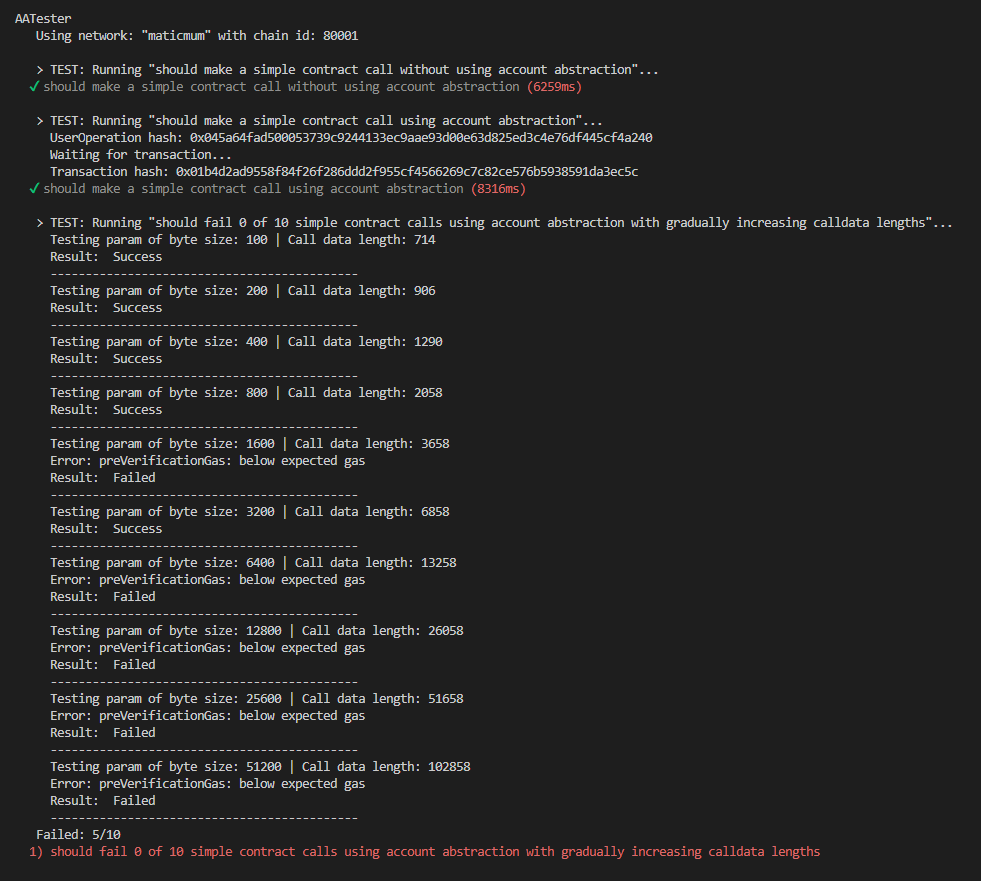
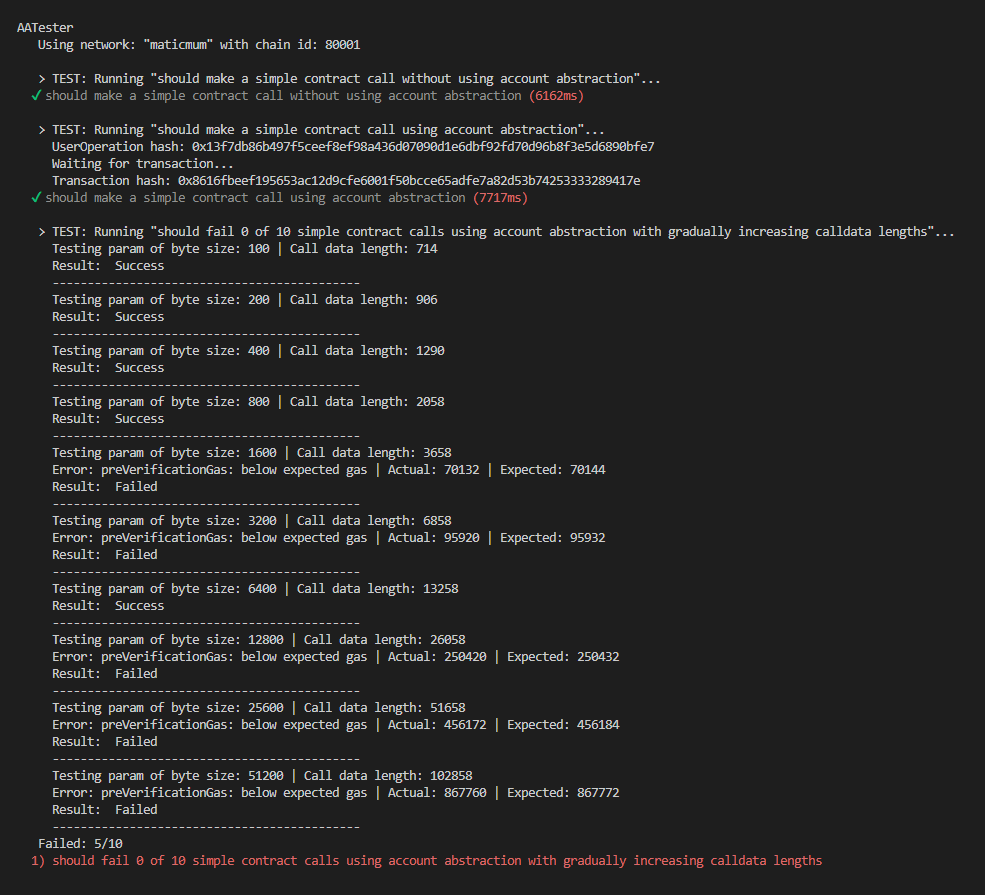
initial commit

Changed region(s): [[0.0, 0.0, 0.948, 0.9807], [0.5199, 0.8581, 0.6422, 0.8888], [0.5199, 0.7049, 0.6422, 0.7355]]

diff --git a/test/AATester.ts b/test/AATester.ts
@@ -8,22 +8,6 @@ import SimpleEventEmitterArtifact from "../artifacts/contracts/SimpleEventEmitte
 import { SimpleAccountAPI, HttpRpcClient } from "@account-abstraction/sdk";
 import { JsonRpcProvider } from "@ethersproject/providers";
 
-interface Gas {
-  maxFeePerGas: BigNumberish;
-  maxPriorityFeePerGas: BigNumberish;
-}
-async function getGasFee(provider: JsonRpcProvider): Promise<Gas> {
-  const [fee, block] = await Promise.all([provider.send("eth_maxPriorityFeePerGas", []), provider.getBlock("latest")]);
-  const tip = ethers.BigNumber.from(fee);
-  const buffer = tip.div(100).mul(13);
-  const maxPriorityFeePerGas = tip.add(buffer);
-  const maxFeePerGas = block.baseFeePerGas
-    ? block.baseFeePerGas.mul(2).add(maxPriorityFeePerGas)
-    : maxPriorityFeePerGas;
-
-  return { maxFeePerGas, maxPriorityFeePerGas };
-}
-
 describe("AATester", async () => {
   let signers: any[];
   let signer: Signer;
@@ -51,6 +35,7 @@ describe("AATester", async () => {
     });
   });
 
+  // Run a simple test without account abstraction
   const testDesc1 = "should make a simple contract call without using account abstraction";
   it(testDesc1, async function () {
     console.log('\n     > TEST: Running "' + testDesc1 + '"...');
@@ -59,6 +44,7 @@ describe("AATester", async () => {
     await expect(tx).to.emit(contract, "ParameterEmitted").withArgs(parameter);
   });
 
+  // Run a simple test with account abstraction
   const testDesc2 = "should make a simple contract call using account abstraction";
   it("should make a simple contract call using account abstraction", async function () {
     console.log('\n     > TEST: Running "' + testDesc2 + '"...');
@@ -77,6 +63,7 @@ describe("AATester", async () => {
     await expect(txHash).to.emit(contract, "ParameterEmitted").withArgs(parameter);
   });
 
+  // Run 10 tests with gradually increasing calldata length
   const testDesc3 =
     "should fail 0 of 10 simple contract calls using account abstraction with gradually increasing calldata lengths";
   it(testDesc3, async function () {
@@ -107,7 +94,15 @@ describe("AATester", async () => {
         await expect(txHash).to.emit(contract, "ParameterEmitted").withArgs(parameter);
       } catch (error: any) {
         if (error.message.includes("preVerificationGas: below expected gas")) {
-          console.log("       Error: preVerificationGas: below expected gas");
+          const expectedRegex = /below expected gas of (\d+)/;
+          const actualRegex = /"preVerificationGas\\":\\"(0x[\da-fA-F]+)\\"/;
+          const expectedMatch = error.message.match(actualRegex);
+          const actualMatch = error.message.match(expectedRegex);
+          const expectedValue = parseInt(actualMatch[1], 10);
+          const actualValue = parseInt(expectedMatch[1], 16);
+          console.log(
+            `       Error: preVerificationGas: below expected gas | Actual: ${actualValue} | Expected: ${expectedValue}`
+          );
           success = false;
         } else {
           console.log("       Unexpected Error: ", error.message);
@@ -120,5 +115,22 @@ describe("AATester", async () => {
     }
     console.log(`     Failed: ${failed}/10`);
     expect(failed).to.equal(0);
-  }).timeout(70000);
+  }).timeout(80000);
 });
+
+// Utility function for gas
+interface Gas {
+  maxFeePerGas: BigNumberish;
+  maxPriorityFeePerGas: BigNumberish;
+}
+async function getGasFee(provider: JsonRpcProvider): Promise<Gas> {
+  const [fee, block] = await Promise.all([provider.send("eth_maxPriorityFeePerGas", []), provider.getBlock("latest")]);
+  const tip = ethers.BigNumber.from(fee);
+  const buffer = tip.div(100).mul(13);
+  const maxPriorityFeePerGas = tip.add(buffer);
+  const maxFeePerGas = block.baseFeePerGas
+    ? block.baseFeePerGas.mul(2).add(maxPriorityFeePerGas)
+    : maxPriorityFeePerGas;
+
+  return { maxFeePerGas, maxPriorityFeePerGas };
+}

diff --git a/config.js b/config.js
@@ -1,7 +1,6 @@
 module.exports = {
   CONTRACT_MUMBAI: "0xE29ac49a7955FB874295b9c6F422E3A093FdB62D",
-  CONTRACT_GOERLI: "0xE8c54ce40b02972350210F1c972564f949Cba86F",
+  CONTRACT_GOERLI: "0x644a0eFd2d0fFBAAF4F83661C93C8566b80e925C",
   ENTRY_POINT: "0x0576a174D229E3cFA37253523E645A78A0C91B57",
   SIMPLE_ACCOUNT_FACTORY: "0x71D63edCdA95C61D6235552b5Bc74E32d8e2527B",
-  ACCOUNT_ADDRESS: "0x864b8a6ecE23b07eF98Cdf72000cE34bdCfdc413",
 };

diff --git a/README.md b/README.md
@@ -1,14 +1,37 @@
-# Account Abstraction Tests
+# Account Abstraction Calldata Tests
 
 This project runs some tests using the Account Abstraction SDK, specifically to test the impact of calldata size on submitting a User Operation to a bundler.
 
+This repo uses Stackup's bundler, but has also been tested with a local deployment of the Infinitism bundler, with the same results.
+
+### Findings
+
+- Some transactions are failing when the UserOperation is submitted to the bundler.
+
+- Generally, the likelihood of failure increases as the calldata size increases. But in repeated tests, the results are not consistent.
+
+- On failure, the error message is that preVerificationGas is below the expected value. It generally differs by only a small amount.
+
+### Conclusions
+
+It appears that the bundler is using the SDK's function for caculating preVerificationGas. Perhaps the discrepancy is related to the calculation being performed at slightly different times.
+
+[SDK implementation of calcPreVerificationGas](https://github.com/eth-infinitism/bundler/blob/d2c3c6ba65ad4114a5efcc0756700d245ad0ce1c/packages/sdk/src/calcPreVerificationGas.ts#L61)
+
+[Bundler implementation of calcPreVerificationGas](https://github.com/eth-infinitism/bundler/blob/264aaa35dd69d846968fc5309b5547d8876313ad/packages/bundler/src/modules/ValidationManager.ts#L6)
+
+### Setup
+
+Before running tests, populate the .env file (see example).
+
+````shell
 Run the tests with:
 
 ```shell
 yarn hardhat test --network mumbai
 yarn hardhat test --network goerli
-```
+````
 
-Example output:
+### Example Output
 
 ![Example Tests](example-test.png)
